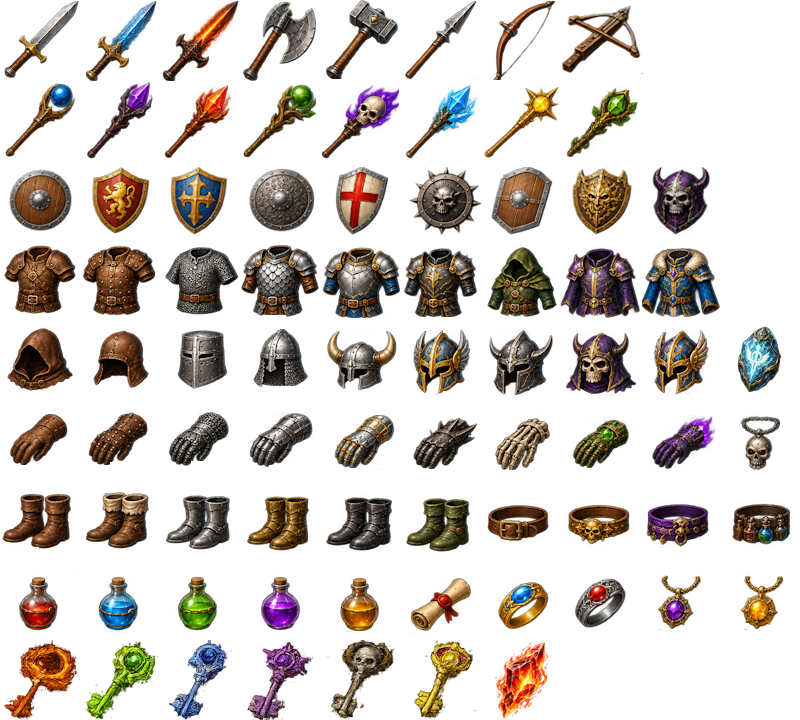
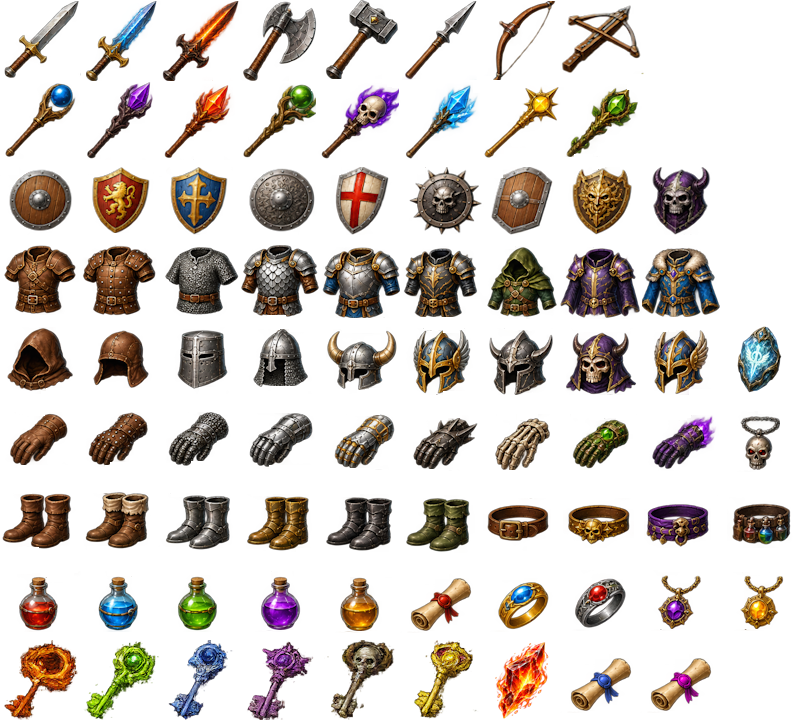
Class coloured scrolls

Changed region(s): [[0.7188, 0.9167, 0.8125, 1.0], [0.8125, 0.9167, 0.9062, 1.0]]

diff --git a/app/[boardId]/[mapId]/[playerId]/inventory-item.test.tsx b/app/[boardId]/[mapId]/[playerId]/inventory-item.test.tsx
@@ -85,6 +85,8 @@ describe('InventoryItem', () => {
     const props = setup({ item: { id: 'scroll-1', type: 'spiritArrowScroll' }, actionPointsLeft: 10 });
     fireEvent.click(screen.getByRole('button', { name: 'Learn' }));
     expect(props.onLearnScroll).toHaveBeenCalledTimes(1);
+    expect(allItems.spiritArrowScroll.iconXY).toEqual({ x: 7, y: 8 });
+    expect(allItems.iceShardsScroll.iconXY).toEqual({ x: 8, y: 8 });
   });
 
   it.each([

diff --git a/lib/games/items.ts b/lib/games/items.ts
@@ -247,7 +247,7 @@ for(const [spellId, spell] of Object.entries(spells)) {
       id: `${spell.id}Scroll`,
       type: PlayerItemType.scroll,
       name: `Scroll of ${spell.name}`,
-      iconXY: { x: 5, y: 7 },
+      iconXY: spell.characterType === 'mage' ? { x: 7, y: 8 } : spell.characterType === 'witch' ? { x: 8, y: 8 } : { x: 5, y: 7 },
       value: spell.intelligence * 2,
       spellId,
       bonusStats: {
